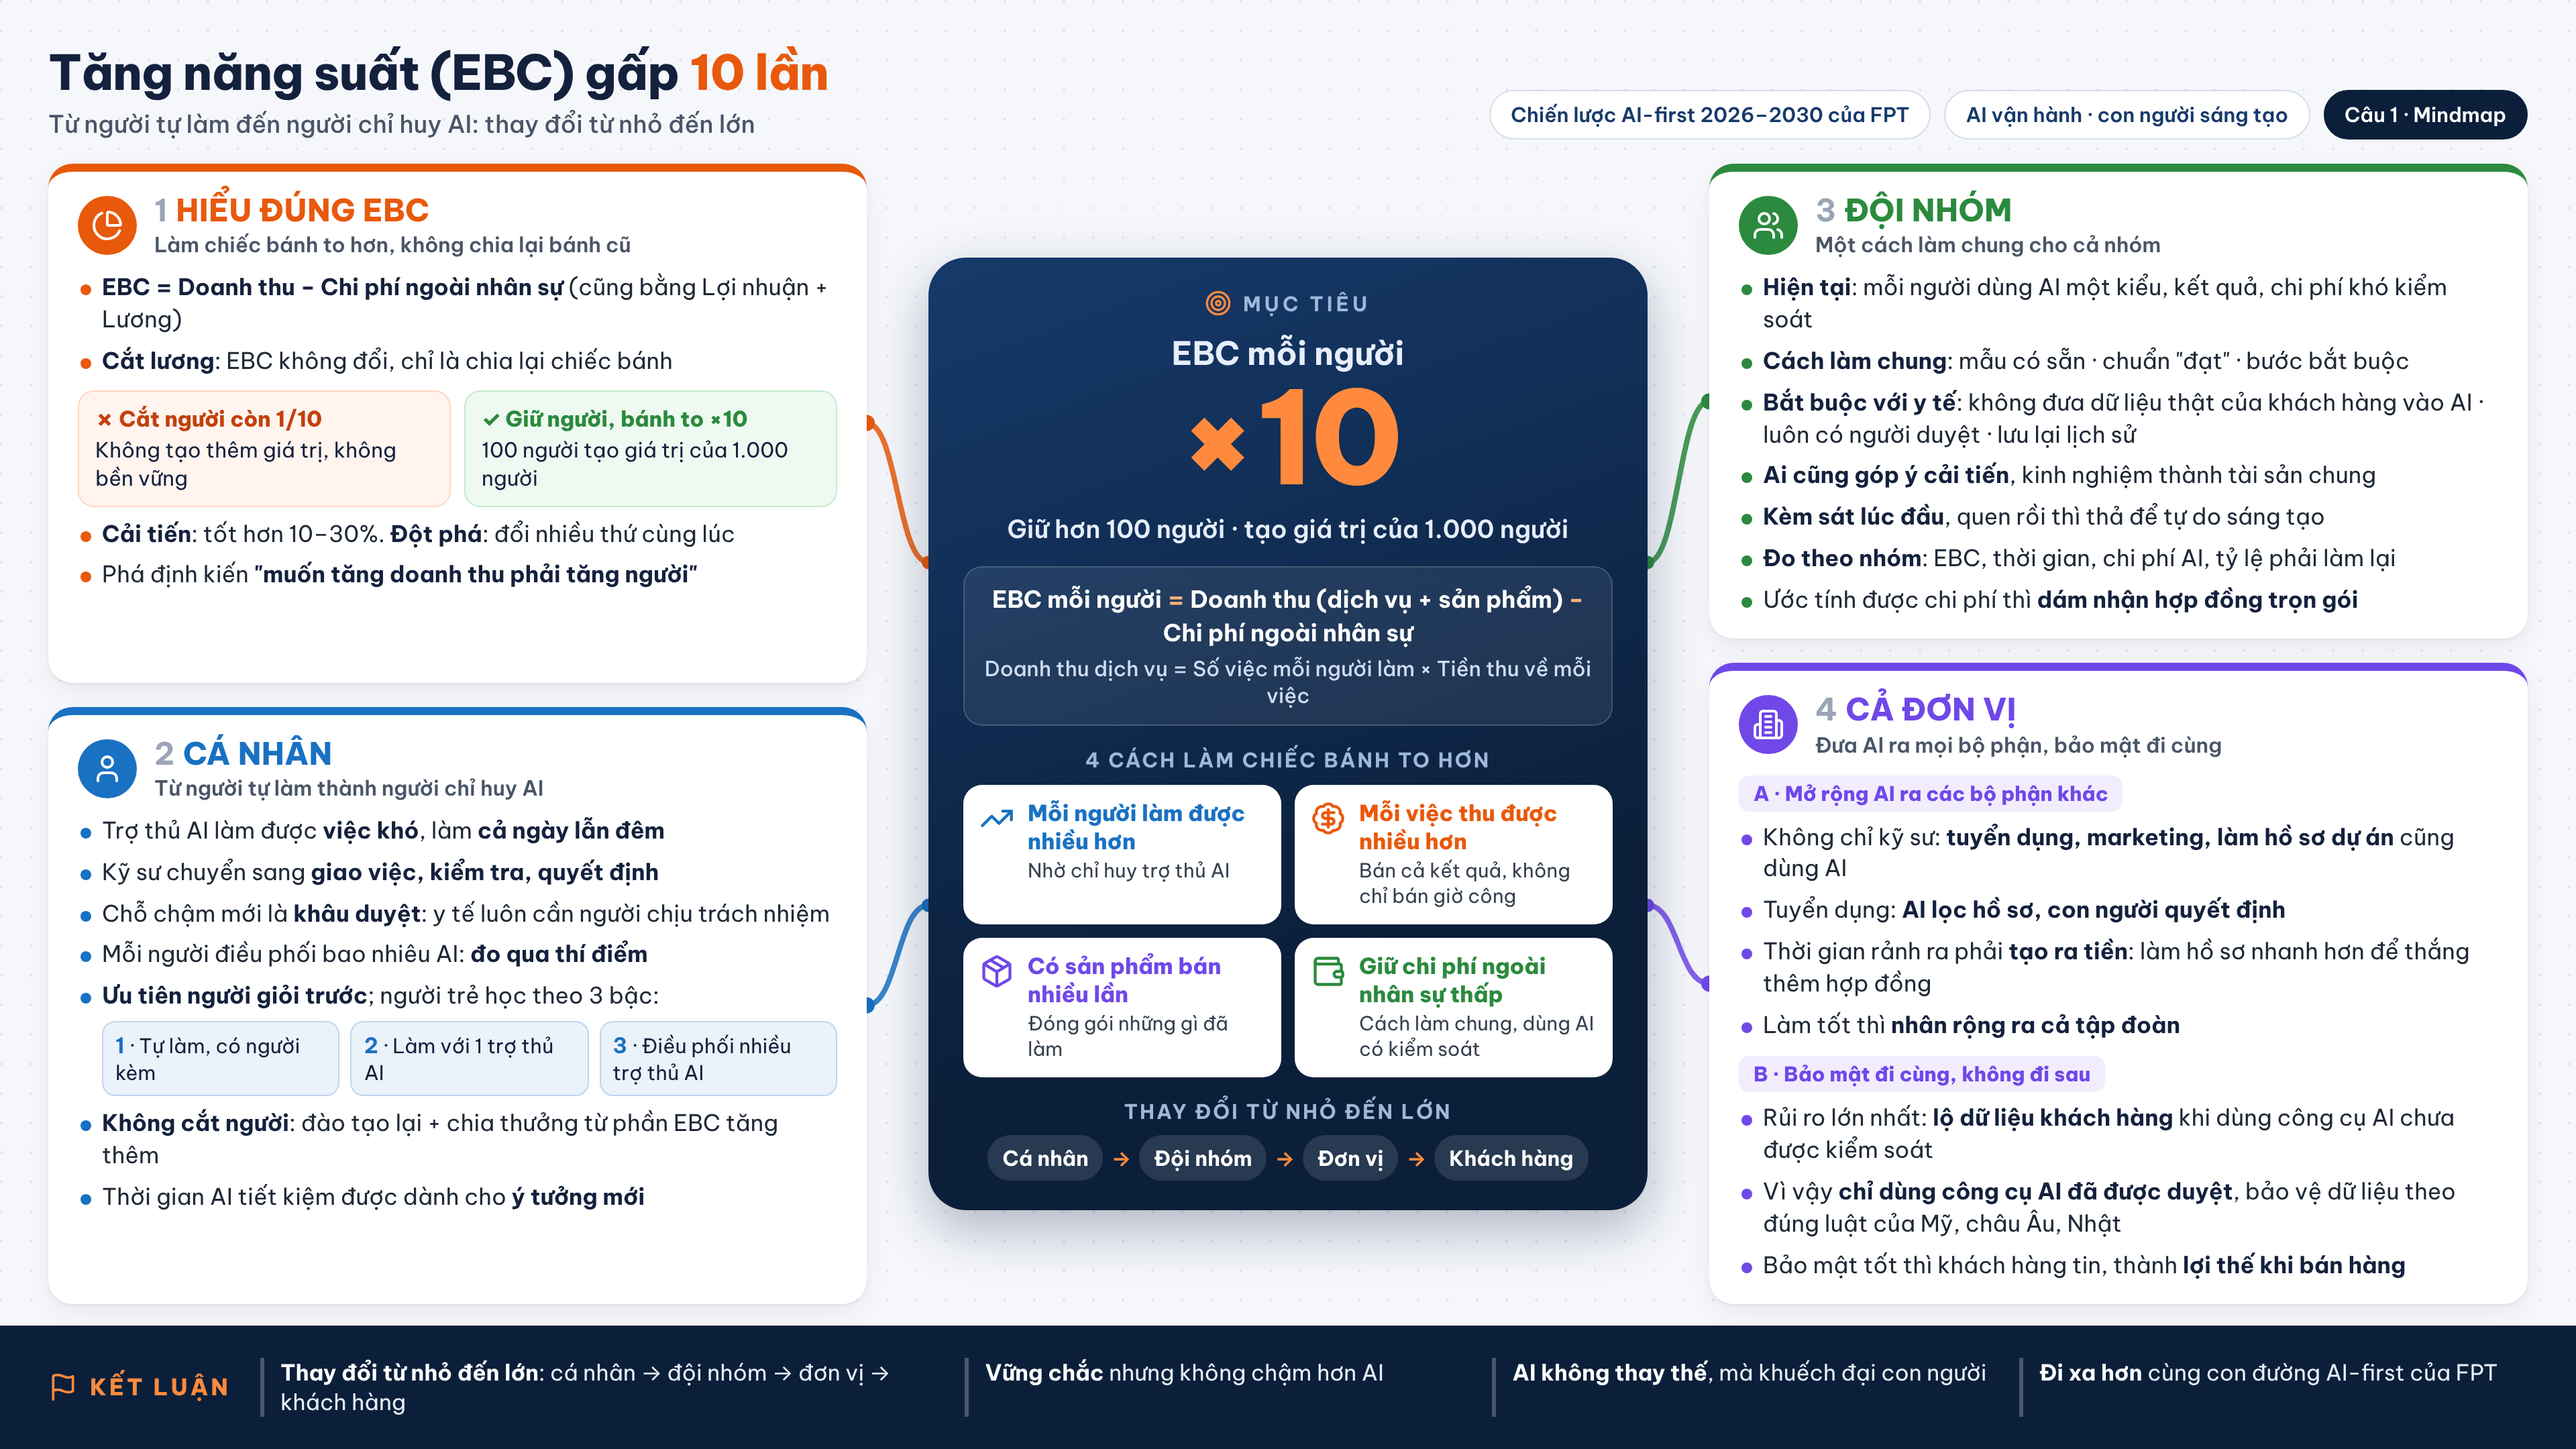
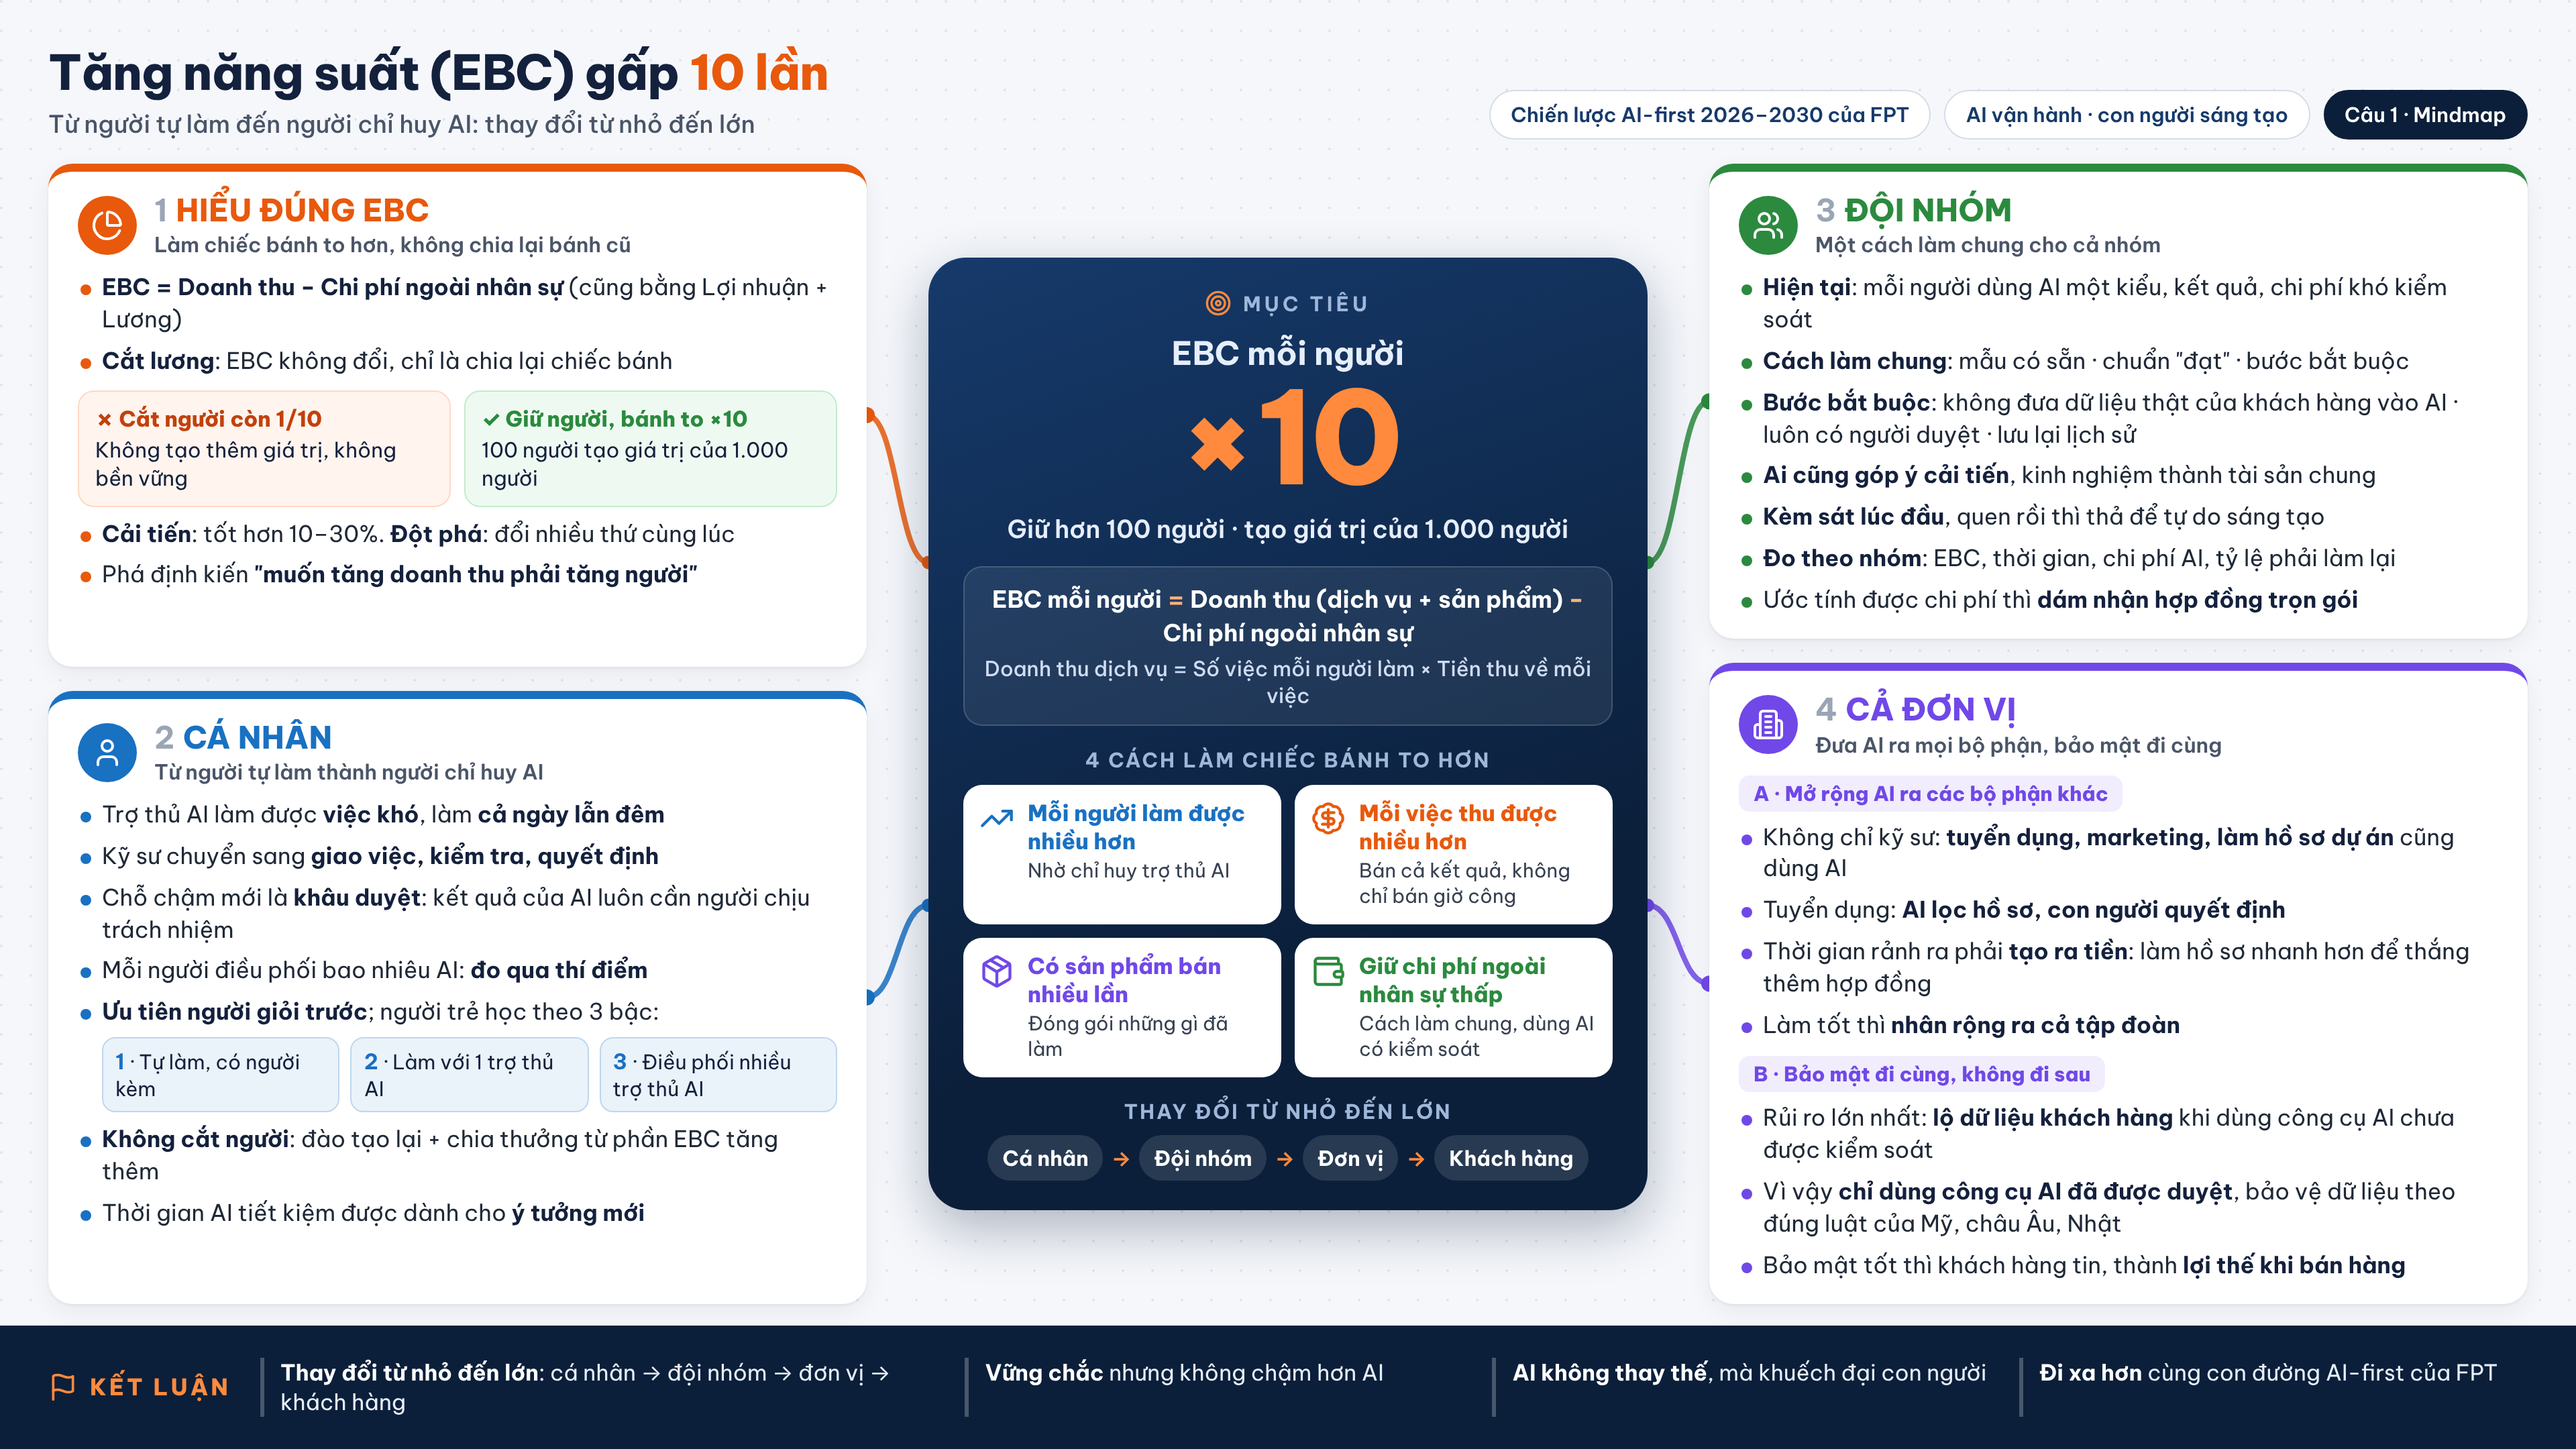
fix: remove healthcare-specific wording from mindmap

Changed region(s): [[0.0, 0.4653, 0.3438, 0.8685], [0.6875, 0.2481, 0.9375, 0.3102]]

diff --git a/mindmap/mindmap-cau-1.html b/mindmap/mindmap-cau-1.html
@@ -150,7 +150,7 @@
         <ul>
           <li>Trợ thủ AI làm được <b>việc khó</b>, làm <b>cả ngày lẫn đêm</b></li>
           <li>Kỹ sư chuyển sang <b>giao việc, kiểm tra, quyết định</b></li>
-          <li>Chỗ chậm mới là <b>khâu duyệt</b>: y tế luôn cần người chịu trách nhiệm</li>
+          <li>Chỗ chậm mới là <b>khâu duyệt</b>: kết quả của AI luôn cần người chịu trách nhiệm</li>
           <li>Mỗi người điều phối bao nhiêu AI: <b>đo qua thí điểm</b></li>
           <li><b>Ưu tiên người giỏi trước</b>; người trẻ học theo 3 bậc:</li>
         </ul>
@@ -196,7 +196,7 @@
         <ul>
           <li><b>Hiện tại</b>: mỗi người dùng AI một kiểu, kết quả, chi phí khó kiểm soát</li>
           <li><b>Cách làm chung</b>: mẫu có sẵn · chuẩn "đạt" · bước bắt buộc</li>
-          <li><b>Bắt buộc với y tế</b>: không đưa dữ liệu thật của khách hàng vào AI · luôn có người duyệt · lưu lại lịch sử</li>
+          <li><b>Bước bắt buộc</b>: không đưa dữ liệu thật của khách hàng vào AI · luôn có người duyệt · lưu lại lịch sử</li>
           <li><b>Ai cũng góp ý cải tiến</b>, kinh nghiệm thành tài sản chung</li>
           <li><b>Kèm sát lúc đầu</b>, quen rồi thì thả để tự do sáng tạo</li>
           <li><b>Đo theo nhóm</b>: EBC, thời gian, chi phí AI, tỷ lệ phải làm lại</li>
